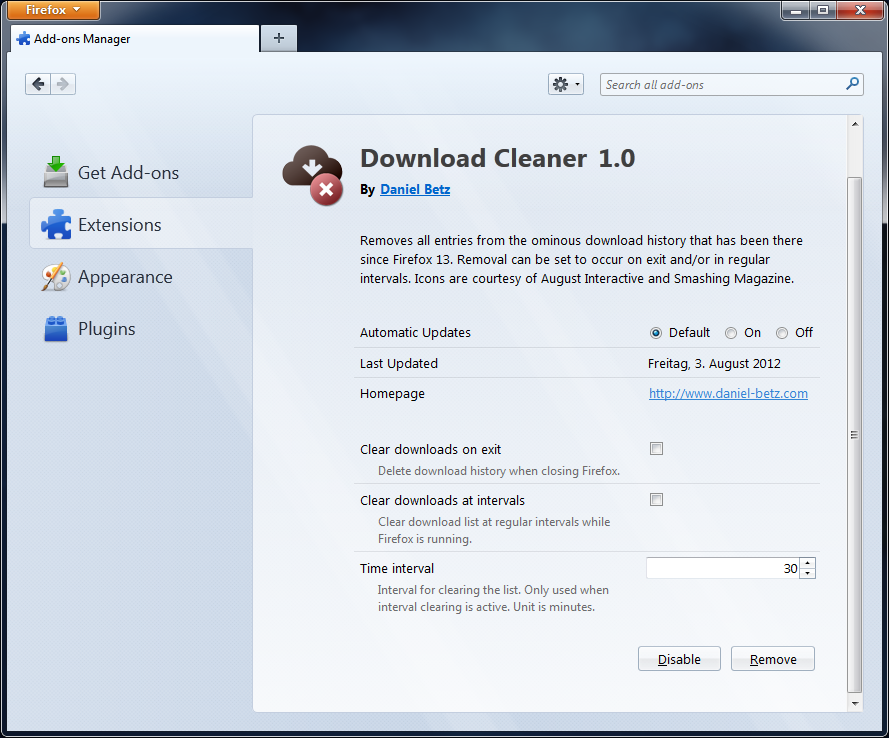
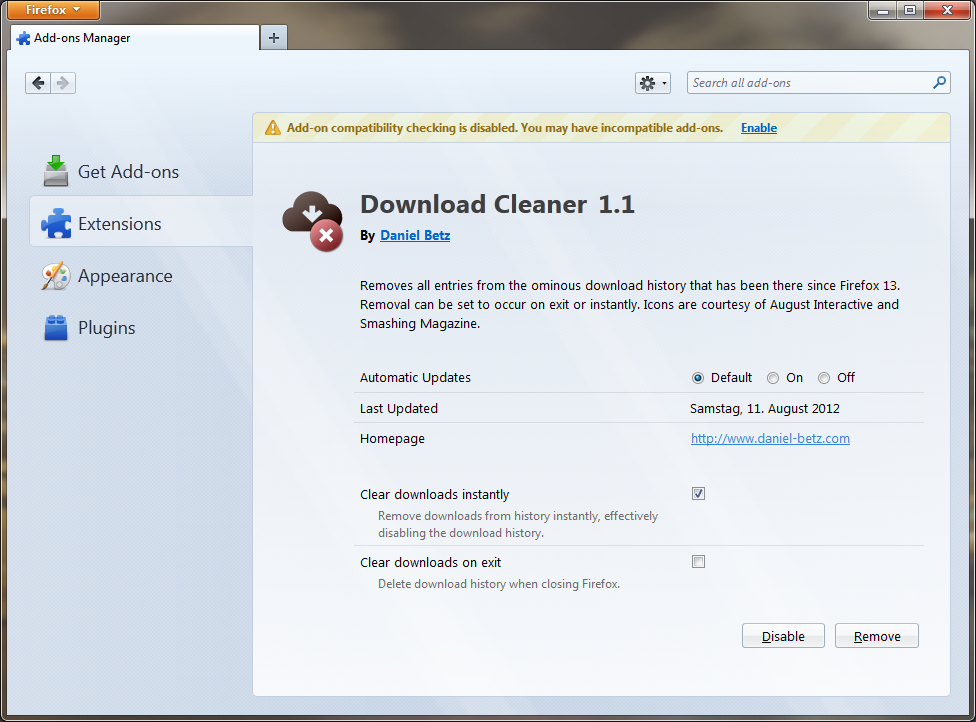
Removed interval clearing, added instant clearing instead. Console prints removed. Minor fixes.

diff --git a/lib/main.js b/lib/main.js
@@ -20,22 +20,19 @@ var {Cc, Ci} = require("chrome");
 var browserHistory = Cc["@mozilla.org/browser/nav-history-service;1"].getService(Ci.nsIBrowserHistory);
 var historyService = Cc["@mozilla.org/browser/nav-history-service;1"].getService(Ci.nsINavHistoryService);
 
+var downloadManager = Cc["@mozilla.org/download-manager;1"].getService(Ci.nsIDownloadManager);
+
 var observerService = Cc["@mozilla.org/observer-service;1"].getService(Ci.nsIObserverService);
 
 var ioService = Cc["@mozilla.org/network/io-service;1"].getService(Ci.nsIIOService);
 
 // Addon SDK imports
-var timers = require("timers");
 var prefService = require("simple-prefs");
-
-// Contains timer ID, if active.
-var clearIntervalTimer = null;
 
 // Easy/strong access to settings.
 var prefNames = {
   "clearOnExit": "clearOnExit",
-  "clearOnInterval": "clearOnInterval",
-  "clearInterval": "clearInterval",
+  "clearOnDownload": "clearOnDownload"
 };
 
 // Listener for "quitting" event - Places database is still available at this point.
@@ -49,13 +46,31 @@ var quitListener = {
   }
 };
 
+// Listener for download manager events
+var downloadListener = {
+  "onDownloadStateChange": function (previousState, download)
+  {
+    if (download.state === downloadManager.DOWNLOAD_DOWNLOADING)
+    {
+      // At this point, the download is present in the history and can be removed.
+      try
+      {
+        browserHistory.removePage(download.source);
+      }
+      catch (removeEx)
+      { }
+    }
+  },
+  "onProgressChange": function (aWebProgress, aRequest, aCurSelfProgress, aMaxSelfProgress, aCurTotalProgress, aMaxTotalProgress, aDownload) { },
+  "onSecurityChange": function (aWebProgress, aRequest, aState, aDownload) { },
+  "onStateChange": function (aWebProgress, aRequest, aStateFlags, aStatus, aDownload) { }
+};
+
 // Does the actual deleting.
 function emptyDownloadsHistory()
 {
-  var queryResult, uriList;
- 
-  console.info("[Download Cleaner] Delete run has begun.");
-  
+  var queryResult, uriList; 
+
   try
   {
     // Generate query for download transition.
@@ -69,7 +84,6 @@ function emptyDownloadsHistory()
   }
   catch (queryEx)
   {
-    console.error("[Download Cleaner] Error querying places: ", queryEx);
     return;
   }
   
@@ -92,7 +106,6 @@ function emptyDownloadsHistory()
   }
   catch (iterateEx)
   {
-    console.error("[Download Cleaner] Error collecting query results: ", iterateEx);
     return;
   }
   
@@ -114,32 +127,23 @@ function emptyDownloadsHistory()
   }
   catch (deleteEx)
   {
-    console.error("[Download Cleaner] Error deleting entries: ", deleteEx);
     return;
   }
-  
-  console.info("[Download Cleaner] Deleted " + uriList.length + " download history entries.");
 }
 
-function setClearInterval()
-{
-  // Handle interval enabled preference - start and stop timer as needed. A delay of zero or less is not supported.
-  if (prefService.prefs.clearOnInterval && prefService.prefs.clearInterval > 0)
-  {
-    clearIntervalTimer = timers.setInterval(emptyDownloadsHistory, prefService.prefs.clearInterval * 60 * 1000);
-  }
-  else if (clearIntervalTimer != null)
-  {
-    timers.clearInterval(clearIntervalTimer);
-    clearIntervalTimer = null;
-  }
-}
 // Executed when a user preference changes.
 function prefChanged(prefName)
 {
-  if (prefName === prefNames.clearOnInterval || prefName === prefNames.clearInterval)
+  if (prefName === prefNames.clearOnDownload)
   {
-    setClearInterval();
+    if (prefService.prefs.clearOnDownload)
+    {
+      downloadManager.addListener(downloadListener);
+    }
+    else
+    {
+      downloadManager.removeListener(downloadListener);
+    }
   }
 }
 
@@ -158,13 +162,16 @@ exports.main = function (options, callback)
       prefChanged(name);
     }
   }
-}
+};
 
 // Executed when this module is a loaded extension that is about to be unloaded.
 exports.onUnload = function (reason)
 {
   // Remove event listener.
   observerService.removeObserver(quitListener, "quit-application-granted");
+  
+  // Remove download listener
+  downloadManager.removeListener(downloadListener);
   
   // Remove all setting listeners as well.  
   for (var name in prefNames)
@@ -174,11 +181,4 @@ exports.onUnload = function (reason)
       prefService.removeListener(name, prefChanged);
     }
   }
-  
-  // If the interval timer was active, disable it.
-  if (clearIntervalTimer != null)
-  {
-    timers.clearInterval(clearIntervalTimer);
-    clearIntervalTimer = null;
-  }
-}
+};
